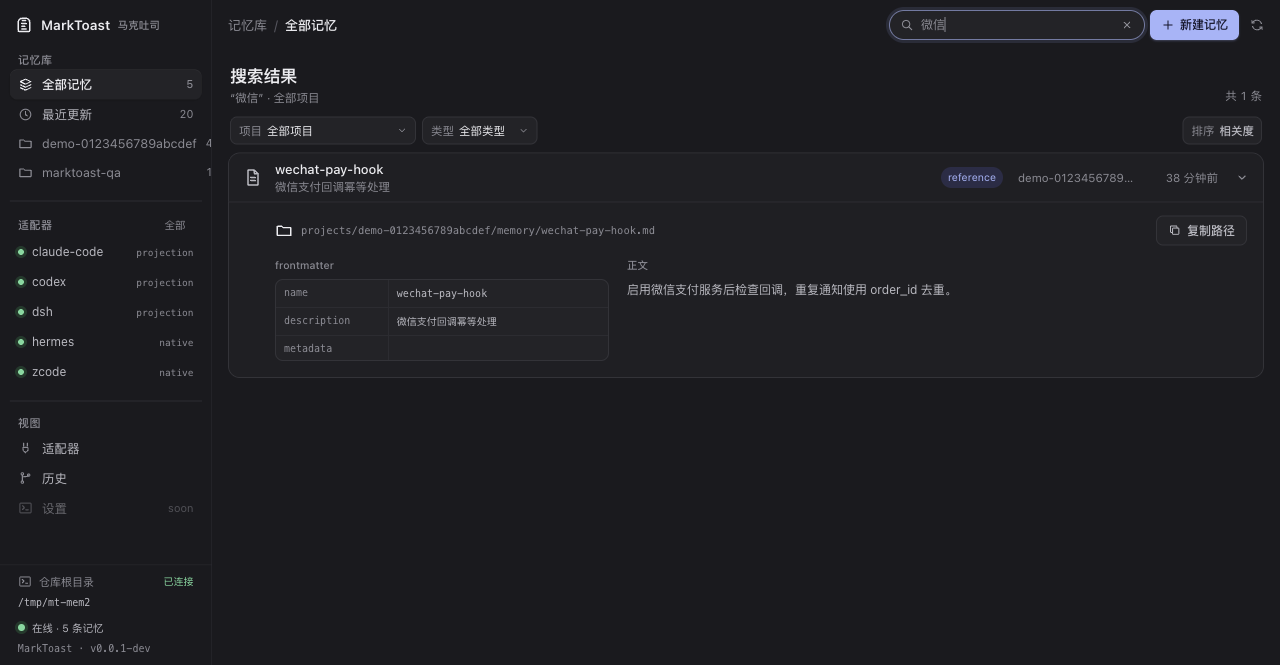
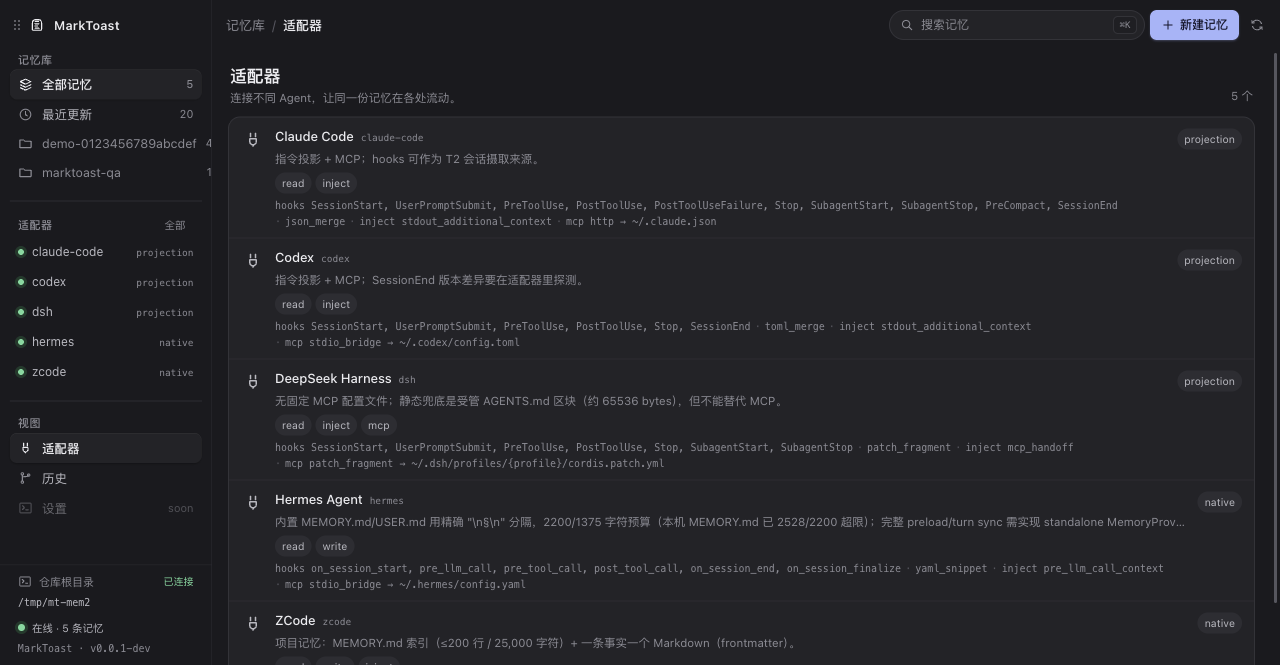
fix(ui): match Magpie's motion, not just its colors
- segmented control now has Magpie's sliding thumb: 280ms
  cubic-bezier(.2,.8,.2,1), laid out on first paint, re-aimed on view
  switch and resize; buttons only carry colour
- each view fades up with Magpie's view-in (240ms, translateY(5px))
- expanding a memory row uses Magpie's fold curve (420ms
  cubic-bezier(.22,1,.36,1)) with staggered detail sections
- dialogs enter with translateY(6px)+scale(.992) (200ms) and leave with a
  matching 140ms fade-out instead of disappearing
- icon/button press feedback: icon scale(.9), seg button scale(.96)
- skeleton shimmer follows Magpie's 1.4s gradient sweep
- hover transitions at Magpie's 120-180ms
- prefers-reduced-motion disables view/fold/dialog/thumb/shimmer motion
- desktop layout now matches Magpie's split: sidebar nav + breadcrumb
  header; segmented control only appears in the compact (<900px) layout
- refreshed screenshots (light, detail, dark)

diff --git a/frontend/style.css b/frontend/style.css
@@ -141,6 +141,8 @@ a { color: inherit; text-decoration: none; }
   font-weight: 500;
   letter-spacing: .02em;
 }
+.side-top .logo { width: 16px; height: 16px; color: var(--fg); }
+.side-brand-name { color: var(--fg); font-size: 12.5px; font-weight: 600; }
 .drag-grip {
   display: grid;
   grid-template-columns: repeat(2, 2px);
@@ -231,23 +233,6 @@ a { color: inherit; text-decoration: none; }
   backdrop-filter: blur(16px);
 }
 
-.breadcrumb {
-  display: flex;
-  align-items: center;
-  gap: 7px;
-  min-width: 0;
-  padding-left: 2px;
-  color: var(--muted);
-  font-size: 13px;
-  white-space: nowrap;
-}
-.breadcrumb i { color: var(--faint); font-style: normal; }
-.breadcrumb b {
-  overflow: hidden;
-  color: var(--fg);
-  font-weight: 500;
-  text-overflow: ellipsis;
-}
 .brand { display: flex; flex: none; align-items: center; gap: 7px; height: 34px; border-radius: 7px; }
 .brand .logo { color: var(--fg); }
 .brand-copy { display: flex; align-items: baseline; gap: 7px; }
@@ -723,4 +708,64 @@ a { color: inherit; text-decoration: none; }
     animation-iteration-count: 1 !important;
     transition-duration: .01ms !important;
   }
+}
+
+/* ---- Magpie motion ------------------------------------------------------ */
+/* the segmented control's thumb glides to the picked option (280ms, the
+   same curve Magpie uses); the button itself only carries colour */
+.seg .thumb {
+  position: absolute;
+  top: 2px;
+  left: 0;
+  width: 0;
+  height: calc(100% - 4px);
+  border-radius: 6px;
+  background: var(--card);
+  box-shadow: 0 1px 2px rgba(0, 0, 0, .12), 0 0 0 .5px rgba(0, 0, 0, .06);
+  pointer-events: none;
+  transition: transform .28s cubic-bezier(.2, .8, .2, 1), width .28s cubic-bezier(.2, .8, .2, 1);
+}
+.seg .thumb.still { transition: none; }
+.seg button.on { background: transparent; box-shadow: none; }
+.seg button:active:not(:disabled) { transform: scale(.96); }
+.icon:active { transform: scale(.9); }
+.icon { transition: background .12s, color .12s, transform .12s var(--ease); }
+
+/* each view fades up when it is shown, like Magpie's .view animation */
+.view-panel { animation: view-in .24s var(--ease); }
+
+/* expanding a memory row: Magpie's fold curve, with a small stagger */
+.memory-expanded { animation: expand-in .42s cubic-bezier(.22, 1, .36, 1); }
+.detail-section { animation: detail-in .34s var(--ease) both; }
+.detail-section:nth-child(2) { animation-delay: 45ms; }
+.detail-section:nth-child(3) { animation-delay: 90ms; }
+
+/* dialogs leave with the same motion they arrive with */
+.modal.closing { animation: fade-out .14s ease-in forwards; }
+.modal.closing .dialog { animation: dialog-out .14s ease-in forwards; }
+@keyframes detail-in { from { opacity: 0; transform: translateY(4px); } }
+@keyframes fade-out { to { opacity: 0; } }
+@keyframes dialog-out { to { opacity: 0; transform: translateY(4px) scale(.995); } }
+
+/* header layout: wide windows use the sidebar like Magpie, narrow ones the
+   compact brand and the segmented control */
+.breadcrumb {
+  display: flex;
+  align-items: center;
+  gap: 7px;
+  min-width: 0;
+  color: var(--muted);
+  font-size: 13px;
+  white-space: nowrap;
+}
+.breadcrumb i { color: var(--faint); font-style: normal; }
+.breadcrumb b { overflow: hidden; color: var(--fg); font-weight: 500; text-overflow: ellipsis; }
+.compact-brand { display: none; }
+@media (min-width: 901px) {
+  .top .seg { display: none; }
+  .top .compact-brand { display: none; }
+}
+@media (max-width: 900px) {
+  .top .compact-brand { display: flex; }
+  .top .breadcrumb { display: none; }
 }

diff --git a/frontend/index.html b/frontend/index.html
@@ -78,7 +78,8 @@
   <aside class="sidebar" id="sidebar" aria-label="记忆仓库导航">
     <div class="side-top">
       <span class="drag-grip" aria-hidden="true"><i></i><i></i><i></i><i></i><i></i><i></i></span>
-      <span>工作区</span>
+      <svg class="logo" viewBox="0 0 20 20" aria-hidden="true"><use href="#icon-logo"></use></svg>
+      <span class="side-brand-name">MarkToast</span>
     </div>
     <div class="side-scroll">
       <section class="side-group" aria-labelledby="library-label">
@@ -102,12 +103,29 @@
       <section class="side-group" aria-labelledby="adapters-label">
         <div class="side-label-row">
           <div class="side-label" id="adapters-label">适配器</div>
-          <button class="side-link" id="view-adapters" type="button">全部</button>
+          <button class="side-link" id="open-adapters" type="button" aria-label="查看全部适配器">全部</button>
         </div>
         <div class="adapter-mini-list" id="adapter-mini-list">
           <div class="skeleton side-skeleton"></div>
           <div class="skeleton side-skeleton short"></div>
         </div>
+      </section>
+
+      <section class="side-group" aria-labelledby="views-label">
+        <div class="side-label" id="views-label">视图</div>
+        <button class="side-row" type="button" data-view="adapters">
+          <svg class="ic"><use href="#icon-plug"></use></svg>
+          <span class="side-name">适配器</span>
+        </button>
+        <button class="side-row" type="button" data-view="history">
+          <svg class="ic"><use href="#icon-branch"></use></svg>
+          <span class="side-name">历史</span>
+        </button>
+        <button class="side-row" type="button" data-view="settings" disabled>
+          <svg class="ic"><use href="#icon-terminal"></use></svg>
+          <span class="side-name">设置</span>
+          <span class="side-count">soon</span>
+        </button>
       </section>
 
     </div>
@@ -127,15 +145,18 @@
   </aside>
 
   <header class="top">
-    <a class="brand" href="#" aria-label="MarkToast 首页">
+    <a class="brand compact-brand" href="#" aria-label="MarkToast 首页">
       <svg class="logo" viewBox="0 0 20 20" aria-hidden="true"><use href="#icon-logo"></use></svg>
-      <span class="brand-copy">
-        <span class="brand-name">MarkToast</span>
-        <span class="brand-cn">马克吐司</span>
-      </span>
+      <span class="brand-name">MarkToast</span>
     </a>
+    <div class="breadcrumb" id="breadcrumb" aria-label="当前位置">
+      <span>记忆库</span>
+      <i aria-hidden="true">/</i>
+      <b id="breadcrumb-current">全部记忆</b>
+    </div>
 
     <nav class="seg" id="main-nav" aria-label="主导航">
+      <span class="thumb" id="seg-thumb" aria-hidden="true"></span>
       <button class="on" type="button" data-view="memories" aria-current="page">记忆</button>
       <button type="button" data-view="adapters">适配器</button>
       <button type="button" data-view="history">历史</button>

diff --git a/frontend/app.js b/frontend/app.js
@@ -888,9 +888,33 @@ function switchView(view) {
   document.querySelectorAll(".view-panel").forEach((panel) => {
     panel.hidden = panel.id !== `view-${view}`;
   });
+  positionSegThumb();
   if (view === "adapters" && !state.adapters.length) loadAdapters();
   if (view === "history") loadHistory();
   if (view === "memories" && !state.results.length) loadMemories();
+}
+
+// positionSegThumb slides the segmented control's thumb under the picked tab.
+function positionSegThumb() {
+  const seg = document.getElementById("main-nav");
+  const thumb = document.getElementById("seg-thumb");
+  if (!seg || !thumb) return;
+  const active = seg.querySelector("button.on");
+  if (!active || seg.offsetWidth === 0) {
+    thumb.style.opacity = "0";
+    return;
+  }
+  thumb.style.opacity = "";
+  const x = active.offsetLeft;
+  const w = active.offsetWidth;
+  const first = !thumb.style.width;
+  if (first) thumb.classList.add("still");
+  thumb.style.transform = `translateX(${x}px)`;
+  thumb.style.width = `${w}px`;
+  if (first) {
+    void thumb.offsetWidth;
+    thumb.classList.remove("still");
+  }
 }
 
 function clearFilters() {
@@ -918,15 +942,20 @@ function openDialog() {
   $("memory-name").value = "";
   $("memory-description").value = "";
   $("memory-body").value = "";
+  els.modal.classList.remove("closing");
   els.modal.hidden = false;
   document.body.classList.add("modal-open");
   window.setTimeout(() => $("memory-project").focus(), 30);
 }
 
 function closeDialog() {
-  if (els.modal.hidden) return;
-  els.modal.hidden = true;
+  if (els.modal.hidden || els.modal.classList.contains("closing")) return;
+  els.modal.classList.add("closing");
   document.body.classList.remove("modal-open");
+  window.setTimeout(() => {
+    els.modal.hidden = true;
+    els.modal.classList.remove("closing");
+  }, 150);
   if (state.lastFocus && typeof state.lastFocus.focus === "function") state.lastFocus.focus();
 }
 
@@ -1087,7 +1116,7 @@ function bindEvents() {
   });
 
   $("new-memory-top").addEventListener("click", openDialog);
-  $("view-adapters").addEventListener("click", () => switchView("adapters"));
+  $("open-adapters").addEventListener("click", () => switchView("adapters"));
   $("refresh-view").addEventListener("click", refreshCurrent);
   $("retry-hub").addEventListener("click", retryAll);
   $("close-dialog").addEventListener("click", closeDialog);
@@ -1103,6 +1132,8 @@ function bindEvents() {
       focusSearch();
     });
   });
+  window.addEventListener("resize", positionSegThumb);
+  positionSegThumb();
   window.addEventListener("online", () => loadStatus({ announce: true }));
   window.addEventListener("offline", () => {
     setHubState("offline", "浏览器已离线");

diff --git a/docs/TECH-STACK.md b/docs/TECH-STACK.md
@@ -13,7 +13,7 @@
 |---|---|---|---|---|
 | 核心语言 | **Go** | 1.26.x | 单二进制、跨平台交叉编译、IO/并发简单；作者已有 Go 经验；与 Wails 同栈 | Rust（学习+编译成本）、TypeScript/Node（分发依赖运行时） |
 | 桌面壳 | **Wails v3**（已实现） | `github.com/wailsapp/wails/v3` **v3.1.0 稳定版** | 系统 WebView、单二进制、Mac/Windows/Linux；Magpie 同款 | Tauri 2（Rust 双语言）、Electron（体积/内存） |
-| 前端 | **原生 HTML/CSS/JS** | 无框架；ES modules | **直接对齐 Magpie 的 design tokens 与布局**（浅色默认 + 暗色自动、212px 侧栏、`.seg` 分段控件、白色 `.list`/`.row` 卡片）；系统 WebView 内足够快 | React / Svelte / Vue（都为复杂状态引入，v1 不需要） |
+| 前端 | **原生 HTML/CSS/JS** | 无框架；ES modules | **直接对齐 Magpie 的 design tokens、布局与动效**（浅色默认 + 暗色自动、212px 侧栏、`.seg` thumb 滑动、白色 `.list`/`.row` 卡片、view/fold/dialog 动画、reduced-motion）；系统 WebView 内足够快 | React / Svelte / Vue（都为复杂状态引入，v1 不需要） |
 | 样式 | **手写 CSS + design tokens** | CSS 变量 + 一套 token（颜色/间距/字号） | 与 Magpie 的克制风格一致；可主题化、中英文自适应 | Tailwind（构建链更重，与"手写精修"路线冲突） |
 | TUI | **Bubble Tea + Lipgloss**（后期） | `charmbracelet/bubbletea` | Magpie 同款；给无 GUI 场景/远程使用 | 不做 TUI（少一个界面，但少一个卖点） |
 | 数据库/索引 | **modernc.org/sqlite**（纯 Go） | 最新稳定版 | 无 CGo、交叉编译简单、内建 FTS5 | mattn/go-sqlite3（CGo）、Tantivy（额外索引层） |

diff --git a/README.md b/README.md
@@ -100,7 +100,8 @@ MarkToast treats memory as what it should be: **a repository you own.**
       MCP server over stdio and streamable HTTP (`memory_search/get/save/list`)
 - [x] Web UI follows Magpie's design language (MIT): its design tokens (light default +
 auto dark, indigo accent), 212px sidebar, breadcrumb header, white list cards and
-rows, inline row expansion, modal, Cmd/Ctrl+K
+rows, **its motion** (view fade-up, segmented thumb glide 280ms, row fold 420ms,
+dialog in/out, skeleton shimmer, reduced-motion), modal, Cmd/Ctrl+K
 - [x] Wails v3.1 desktop shell (`make desktop`; opens the same hub in a native window)
 - [ ] Debounced commits, session ingestion, Hermes memory provider, more adapters
 
